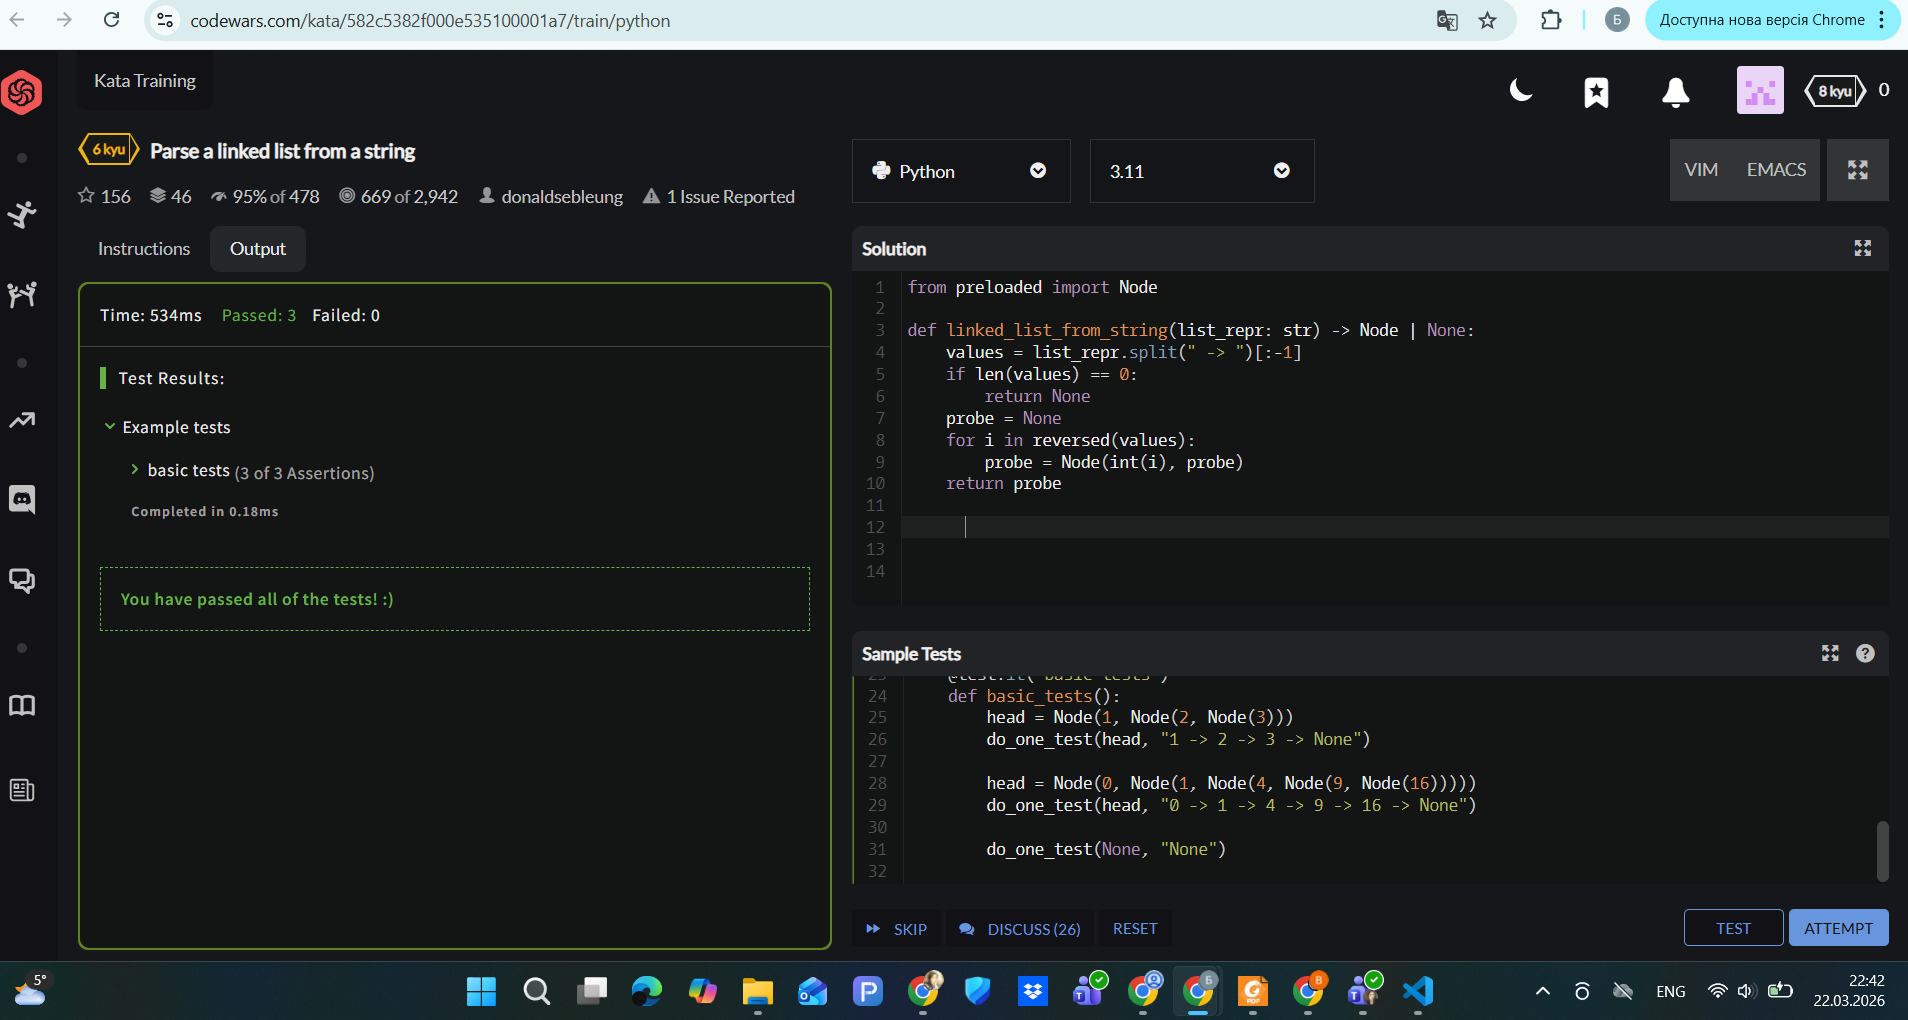
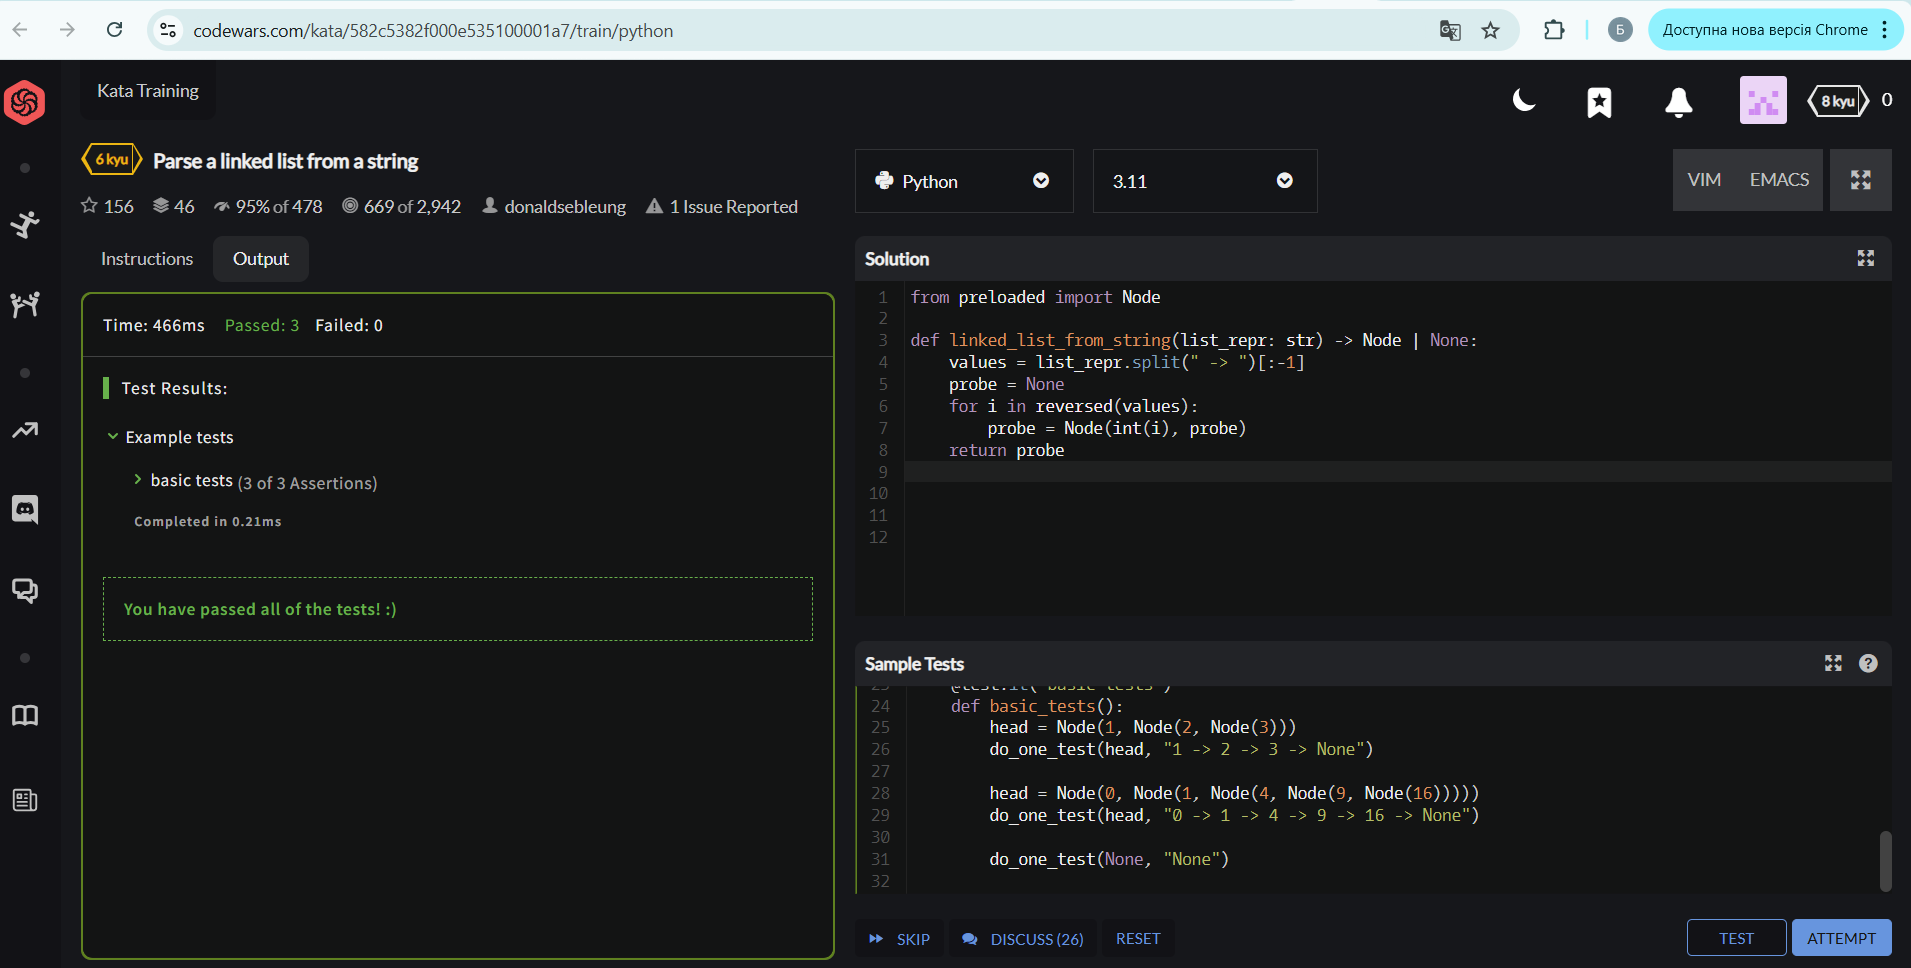
refactor: Remove redundant empty list check in stringify

diff --git a/Parse_a_linked_list_from_a_string/code.py b/Parse_a_linked_list_from_a_string/code.py
@@ -5,8 +5,6 @@ from node import Node
 
 def linked_list_from_string(list_repr: str) -> Node | None:
     values = list_repr.split(" -> ")[:-1]
-    if len(values) == 0:
-        return None
     probe = None
     for i in reversed(values):
         probe = Node(int(i), probe)
